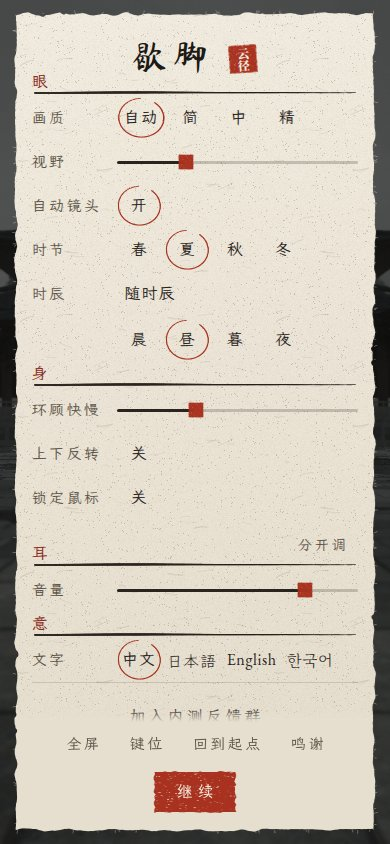
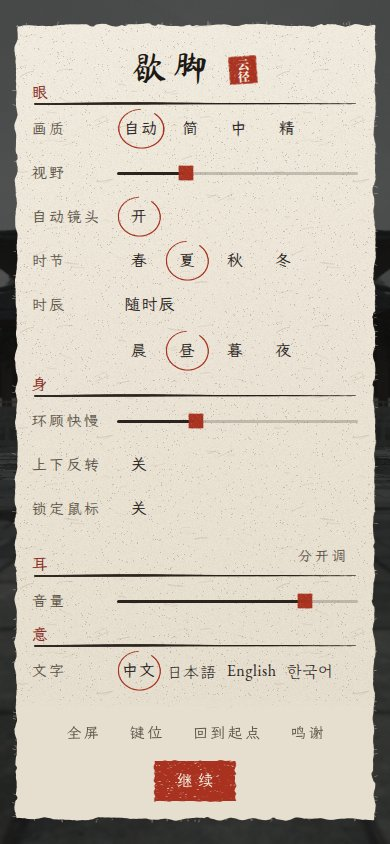
docs(t00): the phone's menu redrawn on a T4, nothing half under its foot (#195)
Claude-Session: https://claude.ai/code/session_01Cq65vGZNxhYejMudm6nJ13

diff --git a/docs/t00/evidence/menu-185/README.md b/docs/t00/evidence/menu-185/README.md
@@ -3,8 +3,9 @@
 歇脚菜单打开、时节已开（`body.seasons`），夏 · 昼，中文。
 
[1 lines of base64/hex data omitted]
-  `menu-after-16x9.jpg`（1920×1080）、`menu-after-phone.jpg`（390×844）
+  `menu-after-16x9.jpg`（1920×1080）。
[1 lines of base64/hex data omitted]
 - **改前**（一张）：main `61d1b54` 构建的 `dist/`，1920×1080，本机 SwiftShader（菜单是纸面，与场景渲染无关；T4 的 Job 只能带当前分支的站点）。`menu-before-16x9.jpg`
-- 此前两次 T4 运行未采用：`20261118-050538`（`ce6ddab`，浏览器语言成了英文，并发现宽屏两栏小标题没对齐）、`20261118-052240`（`6a9a44e`，小标题还是「看 / 手 / 声」，手机上 English、한국어 被底栏盖住）。三次合计约 3 分钟页面时间。
+- 此前两次 T4 运行未采用：`20261118-050538`（`ce6ddab`，浏览器语言成了英文，并发现宽屏两栏小标题没对齐）、`20261118-052240`（`6a9a44e`，小标题还是「看 / 手 / 声」，手机上 English、한국어 被底栏盖住）。四次合计约 3.5 分钟页面时间。
 
 85% JPEG 压缩。
